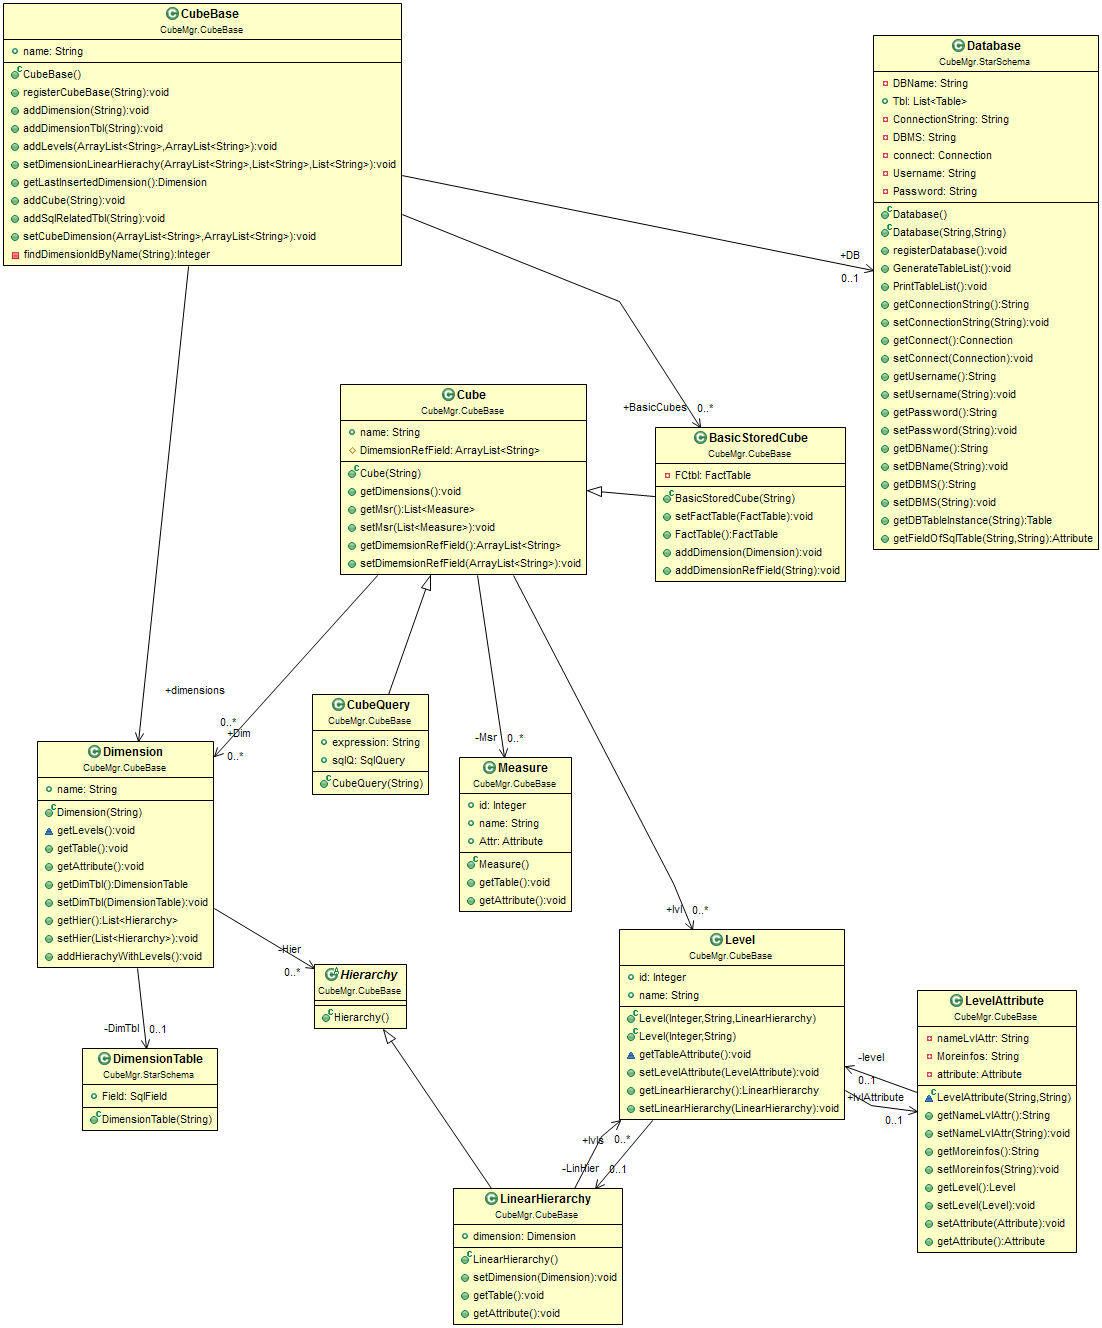
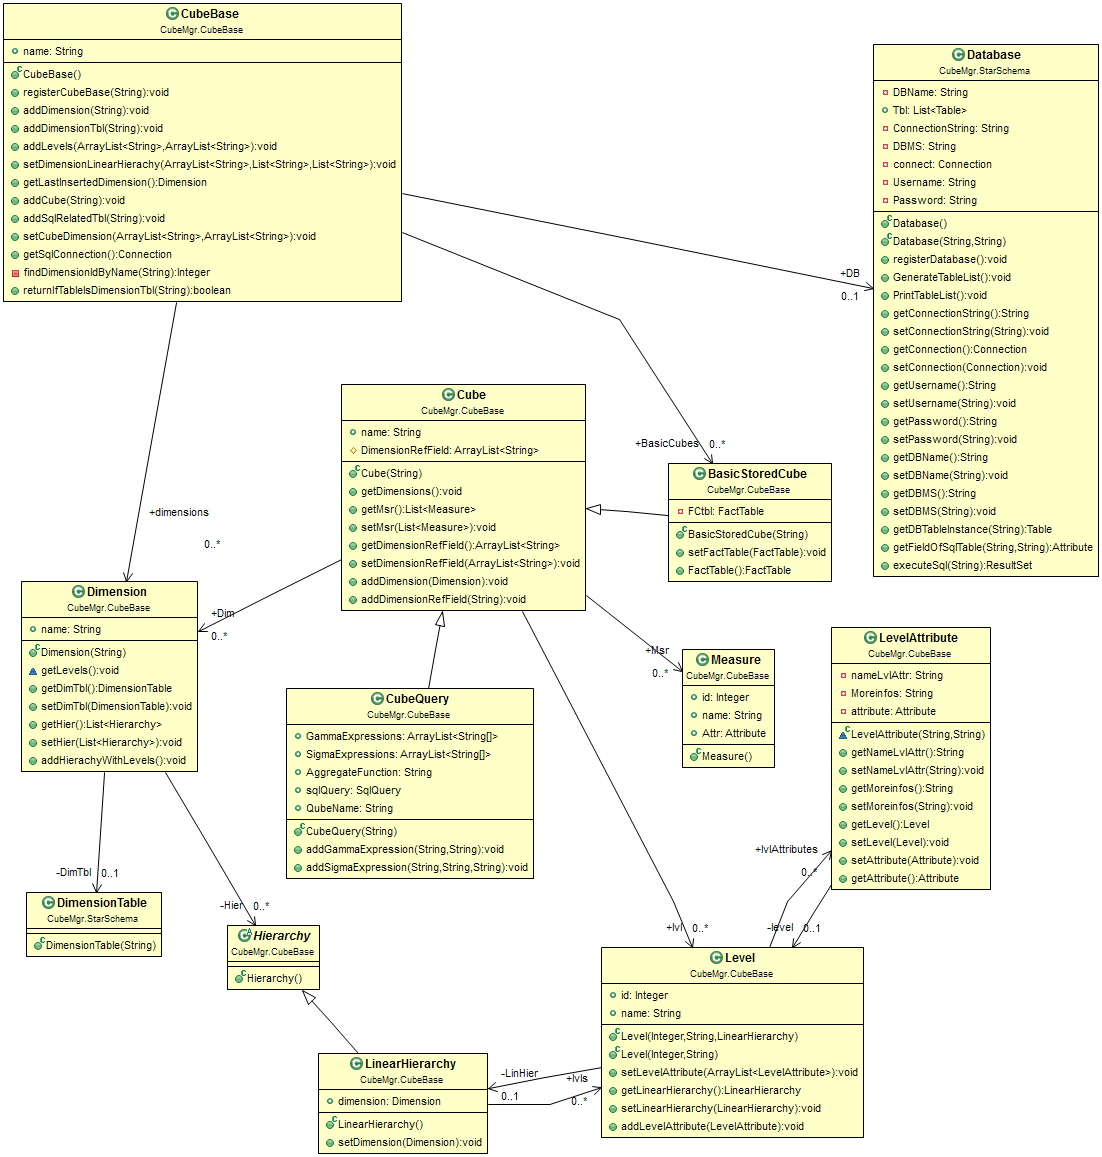
CubeQuery to SqlQuery

diff --git a/src/MainEngine.java b/src/MainEngine.java
@@ -8,6 +8,9 @@ import javax.swing.JFileChooser;
 import AudioMgr.AudioEngine;
 import AudioMgr.FreeTTSAudioEngine;
 import CubeMgr.CubeMgr;
+import CubeMgr.CubeBase.BasicStoredCube;
+import CubeMgr.CubeBase.CubeQuery;
+import CubeMgr.CubeBase.Measure;
 import CubeMgr.StarSchema.SqlQuery;
 import ParserMgr.ParserManager;
 import StoryMgr.Act;
@@ -40,13 +43,7 @@ public class MainEngine {
     	TskMgr=new TaskMgr();
     }
     
-    /* 
-     * Maybe the parameter of this function
-     * must change to different type (Like Query).....
-     * 
-     */
-    
-    public void NewRequest(String Query){
+    public String predefinedSqlQueries(String Query){
     	if(Query.length()==0){
     		/*Query="SELECT A.occupation,A.work_class,AVG(hours_per_week) \n" +
         	   "FROM ADULT A, OCCUPATION O, WORK_CLASS W \n" +
@@ -69,10 +66,49 @@ public class MainEngine {
   	        	   " AND A.MARITAL_STATUS = M.level0 AND M.level1 = 'Partner-absent' \n" +
   	        	   " GROUP BY A.education,A.MARITAL_STATUS";
     	}
-        PrsMng.parse(Query);
-        SqlQuery query=new SqlQuery(PrsMng.aggregatefunc,PrsMng.tablelst,PrsMng.conditionlst,PrsMng.groupperlst);
+    	return Query;
+    }
+    
+    public CubeQuery DefaultCubeQuery(){
+    	CubeQuery cubequery=new CubeQuery("New Request");
+    	cubequery.AggregateFunction="AVG";
+    	cubequery.Msr=new ArrayList<Measure>();
+    	
+    	Measure msrToAdd=new Measure();
+    	msrToAdd.id=1;
+    	msrToAdd.name="Hrs";
+    	msrToAdd.Attr=CubeManager.CBase.DB.getFieldOfSqlTable("occupation", "hours_per_week");
+    	
+    	cubequery.addGammaExpression("marital_status", "level0");
+    	cubequery.addGammaExpression("education", "level1");
+    	
+    	cubequery.addSigmaExpression("marital_status.level1", "=", "Partner-absent");
+    	cubequery.addSigmaExpression("education.level2", "=", "University");
+    	for(BasicStoredCube bsc: CubeManager.CBase.BasicCubes){
+    		if(bsc.name.equals("adult_cube")){
+    			cubequery.referCube=bsc;
+    		}
+    	}
+    	return cubequery;
+    	
+    }
+    
+    /* 
+     * Maybe the parameter of this function
+     * must change to different type (Like Query).....
+     * 
+     */
+    
+    public void NewRequest(String Query){
+    	
+        //PrsMng.parse(predefinedSqlQueries(Query));
+        //SqlQuery query=new SqlQuery(PrsMng.aggregatefunc,PrsMng.tablelst,PrsMng.conditionlst,PrsMng.groupperlst);
         //query.printQuery();
         
+    	SqlQuery query=new SqlQuery();
+    	query.produceExtractionMethod(this.DefaultCubeQuery());
+    	query.printQuery();
+        System.exit(1);
         StorMgr.createStory();
         StorMgr.createStoryOriginalRequest();
         StorMgr.createTasks(TskMgr);
@@ -88,7 +124,7 @@ public class MainEngine {
         
         TskMgr.getLastTask().getLastSubTask().execute(CubeManager.CBase.DB);
         //TskMgr.getLastTask().getLastSubTask().computeFinding();
-       TskMgr.getLastTask().generateSubTasks(CubeManager.CBase);
+        TskMgr.getLastTask().generateSubTasks(CubeManager.CBase);
         AudioMgr=new FreeTTSAudioEngine();
         AudioMgr.InitializeVoiceEngine();
         
@@ -180,7 +216,7 @@ public class MainEngine {
 					//ParseCreation(sc.next().replaceAll("(?m)^[ \t]*\r?\n", ""));
 					PrsMng.parse(sc.next()+";");
 					if(PrsMng.mode==2){
-						this.CubeManager.InsertionDimensionLvl(PrsMng.name_creation,PrsMng.sqltable,PrsMng.originallvllst,PrsMng.customlvllst,PrsMng.hierachylst);
+						this.CubeManager.InsertionDimensionLvl(PrsMng.name_creation,PrsMng.sqltable,PrsMng.originallvllst,PrsMng.customlvllst,PrsMng.dimensionlst);
 						//System.out.println("DIMENSION");
 					}
 					else if(PrsMng.mode==1){

diff --git a/src/CubeMgr/StarSchema/SqlQuery.java b/src/CubeMgr/StarSchema/SqlQuery.java
@@ -2,6 +2,10 @@ package CubeMgr.StarSchema;
 
 import java.sql.ResultSet;
 import java.util.ArrayList;
+
+import CubeMgr.CubeBase.CubeQuery;
+import CubeMgr.CubeBase.Dimension;
+import CubeMgr.CubeBase.LinearHierarchy;
 import TaskMgr.ExtractionMethod;
 import TaskMgr.Result;
 
@@ -20,6 +24,7 @@ public class SqlQuery extends ExtractionMethod {
     	FromClause=new ArrayList<>();
     	WhereClause=new ArrayList<>();
     	GroupByClause=new ArrayList<>();
+    	SelectClauseMeasure=new String[2];
     }
     
     public SqlQuery(String Aggregatefunc,ArrayList<String> Tables,ArrayList<String> Conditions,ArrayList<String> GroupAttr){
@@ -39,7 +44,6 @@ public class SqlQuery extends ExtractionMethod {
     
     public SqlQuery(String[] Aggregatefunc,ArrayList<String[]> Tables,ArrayList<String[]> Conditions,ArrayList<String[]> GroupAttr){
     	init();
-    	SelectClauseMeasure=new String[2];
     	SelectClauseMeasure[0]=Aggregatefunc[0];
     	SelectClauseMeasure[1]=Aggregatefunc[1];
     	FromClause.addAll(Tables);
@@ -92,8 +96,8 @@ public class SqlQuery extends ExtractionMethod {
     }
     
     public void printQuery(){
-    	//System.out.println(returnQuery());
-    	//printBorderLine();
+    	System.out.println(returnMethodString());
+    	printBorderLine();
     }
     
     
@@ -143,6 +147,46 @@ public class SqlQuery extends ExtractionMethod {
 			}
 		}
 		return (count == this.WhereClause.size() ? true : false);
+	}
+
+	@Override
+	public void produceExtractionMethod(CubeQuery cubeQuery) {
+		this.SelectClauseMeasure[0]=cubeQuery.AggregateFunction;
+		this.SelectClauseMeasure[1]="hours_per_week";
+		
+		/*Create Fromclause*/
+		String[] tbl_tmp=new String[1];
+		tbl_tmp[0]=cubeQuery.referCube.FactTable().TblName;
+		this.FromClause.add(tbl_tmp);
+		for(int i=0;i<cubeQuery.GammaExpressions.size();i++){
+			String[] toAdd=new String[1];
+			toAdd[0]=cubeQuery.GammaExpressions.get(i)[0];
+			this.FromClause.add(toAdd);
+		}
+		
+		/*Create WhereClausse */
+		for(String[] sigmaExpr: cubeQuery.SigmaExpressions){
+			for(int i=0;i<cubeQuery.referCube.Dim.size();i++){
+				Dimension dimension=cubeQuery.referCube.Dim.get(i);
+				String[] tmp=sigmaExpr[0].split("\\.");
+				if(dimension.getDimTbl().TblName.equals(tmp[0])){
+					 String toadd[]=new String[3];
+					 toadd[0]=cubeQuery.referCube.getDimensionRefField().get(i);
+					 toadd[1]="=";
+					 toadd[2]=tmp[0]+"."+((LinearHierarchy)dimension.getHier().get(0)).lvls.get(0).lvlAttributes.get(0).getAttribute().name;
+					 
+					 this.WhereClause.add(toadd);
+					 this.WhereClause.add(sigmaExpr);					 
+				}
+			}
+		}
+		
+		/*Create groupClausse*/
+		for(String[] sigmaExpr: cubeQuery.GammaExpressions){
+			String[] toadd=new String[1];
+			toadd[0]=sigmaExpr[0]+"."+sigmaExpr[1];
+			this.GroupByClause.add(toadd);
+		}
 	}
  
     

diff --git a/src/CubeMgr/CubeBase/CubeQuery.java b/src/CubeMgr/CubeBase/CubeQuery.java
@@ -1,14 +1,36 @@
 package CubeMgr.CubeBase;
 
+import java.util.ArrayList;
+
 import CubeMgr.StarSchema.SqlQuery;
 
 public class CubeQuery extends Cube {
     
-	public String expression;
-    public SqlQuery sqlQ;
+	public ArrayList<String[]> GammaExpressions; //0->table, 1->field of table
+	public ArrayList<String[]> SigmaExpressions; //0->TABLE.field, 1-> operator , 2->VALUE
+	public String AggregateFunction;
+    public SqlQuery sqlQuery;    
+    public BasicStoredCube referCube;
     
     public CubeQuery(String NAME) {
 		super(NAME);
-		// TODO Auto-generated constructor stub
+		GammaExpressions=new ArrayList<String[]>();
+		SigmaExpressions=new ArrayList<String[]>();
 	}
+    
+    public void addGammaExpression(String table,String field){
+    	String toadd[]=new String[2];
+    	toadd[0]=table;
+    	toadd[1]=field;
+    	GammaExpressions.add(toadd);
+    }
+    
+    public void addSigmaExpression(String tablefield,String operator,String value){
+    	String toadd[]=new String[3];
+    	toadd[0]=tablefield;
+    	toadd[1]=operator;
+    	toadd[2]=value;
+    	SigmaExpressions.add(toadd);
+    }
+    
 }

diff --git a/src/CubeMgr/CubeBase/Dimension.java b/src/CubeMgr/CubeBase/Dimension.java
@@ -1,15 +1,18 @@
 package CubeMgr.CubeBase;
 
 import CubeMgr.StarSchema.DimensionTable;
+
+import java.util.ArrayList;
 import java.util.List;
 
 public class Dimension{
-    private List<Hierarchy> Hier;
+    private ArrayList<Hierarchy> hierachy;
     private DimensionTable DimTbl;
     public String name;
     
     public Dimension(String nameDim){
     	name=nameDim;
+    	hierachy=new ArrayList<Hierarchy>();
     }
     
     void getLevels(){
@@ -25,12 +28,12 @@ public class Dimension{
             DimTbl = dimTbl;
     }
 
-    public List<Hierarchy> getHier() {
-            return Hier;
+    public ArrayList<Hierarchy> getHier() {
+            return hierachy;
     }
 
-    public void setHier(List<Hierarchy> hier) {
-            Hier = hier;
+    public void setHier(ArrayList<Hierarchy> hier) {
+    	hierachy = hier;
     }
     
     public void addHierachyWithLevels(){

diff --git a/src/TaskMgr/ExtractionMethod.java b/src/TaskMgr/ExtractionMethod.java
@@ -1,6 +1,7 @@
 package TaskMgr;
 
 import java.sql.ResultSet;
+import CubeMgr.CubeBase.CubeQuery;
 
 public abstract class ExtractionMethod {
     public Result Res;
@@ -12,6 +13,7 @@ public abstract class ExtractionMethod {
     abstract public boolean setResult(ResultSet resultSet);
     abstract public Result getResult();
     abstract public String returnMethodString();
+    abstract public void produceExtractionMethod(CubeQuery cubeQuery);
     abstract public boolean compareExtractionMethod(ExtractionMethod toCompare);
     
 }

diff --git a/src/CubeMgr/CubeBase/CubeBase.java b/src/CubeMgr/CubeBase/CubeBase.java
@@ -61,7 +61,7 @@ public class CubeBase {
 		LinearHierarchy LinHier=new LinearHierarchy();
 		LinHier.setDimension(tmp);
 		for(int i=0;i<hierachylst.size();i++){
-			if(custFld_name.equals(hierachylst.get(i))){
+			if(custFld_name.get(i).equals(hierachylst.get(i))){
 				Level lvl=new Level(i,hierachylst.get(i));
 				
 				String temp_string=fld_tbl.get(i).replace(".","#");
@@ -78,6 +78,7 @@ public class CubeBase {
 				LinHier.lvls.add(lvl);
 			}
 		}
+		tmp.getHier().add(LinHier);
 	}
 	
 	

diff --git a/src/CubeMgr/StarSchema/Table.java b/src/CubeMgr/StarSchema/Table.java
@@ -26,7 +26,6 @@ public class Table {
     	      }
     		
 		} catch (SQLException e) {
-			// TODO Auto-generated catch block
 			e.printStackTrace();
 		}
     }
@@ -39,7 +38,7 @@ public class Table {
     
     public Attribute getAttribute(String name){
     	for(Attribute item : LstAttr){
-    		if (item.name==name) return item;
+    		if (item.name.equals(name)) return item;
     	}
     	return null;
     }

diff --git a/src/CubeMgr/CubeBase/Cube.java b/src/CubeMgr/CubeBase/Cube.java
@@ -9,7 +9,7 @@ public class Cube {
 	//private Dimension CubDim;
     public String name;
     public List<Level> lvl;
-    private List<Measure> Msr;
+    public List<Measure> Msr;
     public List<Dimension> Dim;
     protected ArrayList<String> DimensionRefField;
     

diff --git a/src/CubeMgr/CubeBase/Level.java b/src/CubeMgr/CubeBase/Level.java
@@ -18,6 +18,7 @@ public class Level {
     public Level(Integer position,String nm){
     	id=position;
     	name=nm;
+    	lvlAttributes=new ArrayList<LevelAttribute>();
     }
         
     public void setLevelAttribute(ArrayList<LevelAttribute> levelAttributes){

diff --git a/src/CubeMgr/CubeBase/LinearHierarchy.java b/src/CubeMgr/CubeBase/LinearHierarchy.java
@@ -8,7 +8,7 @@ public class LinearHierarchy  extends Hierarchy {
     public Dimension dimension;
 
     public LinearHierarchy(){
-    	lvls=new ArrayList<>();
+    	lvls=new ArrayList<Level>();
     }
     
     public void setDimension(Dimension dimensionToPoint){

diff --git a/src/CubeMgr/CubeBase/Measure.java b/src/CubeMgr/CubeBase/Measure.java
@@ -6,5 +6,7 @@ public class Measure{
     public Integer id;
     public String name;
     public Attribute Attr;
-   
+    
+    public Measure(){    	
+    }
 }
